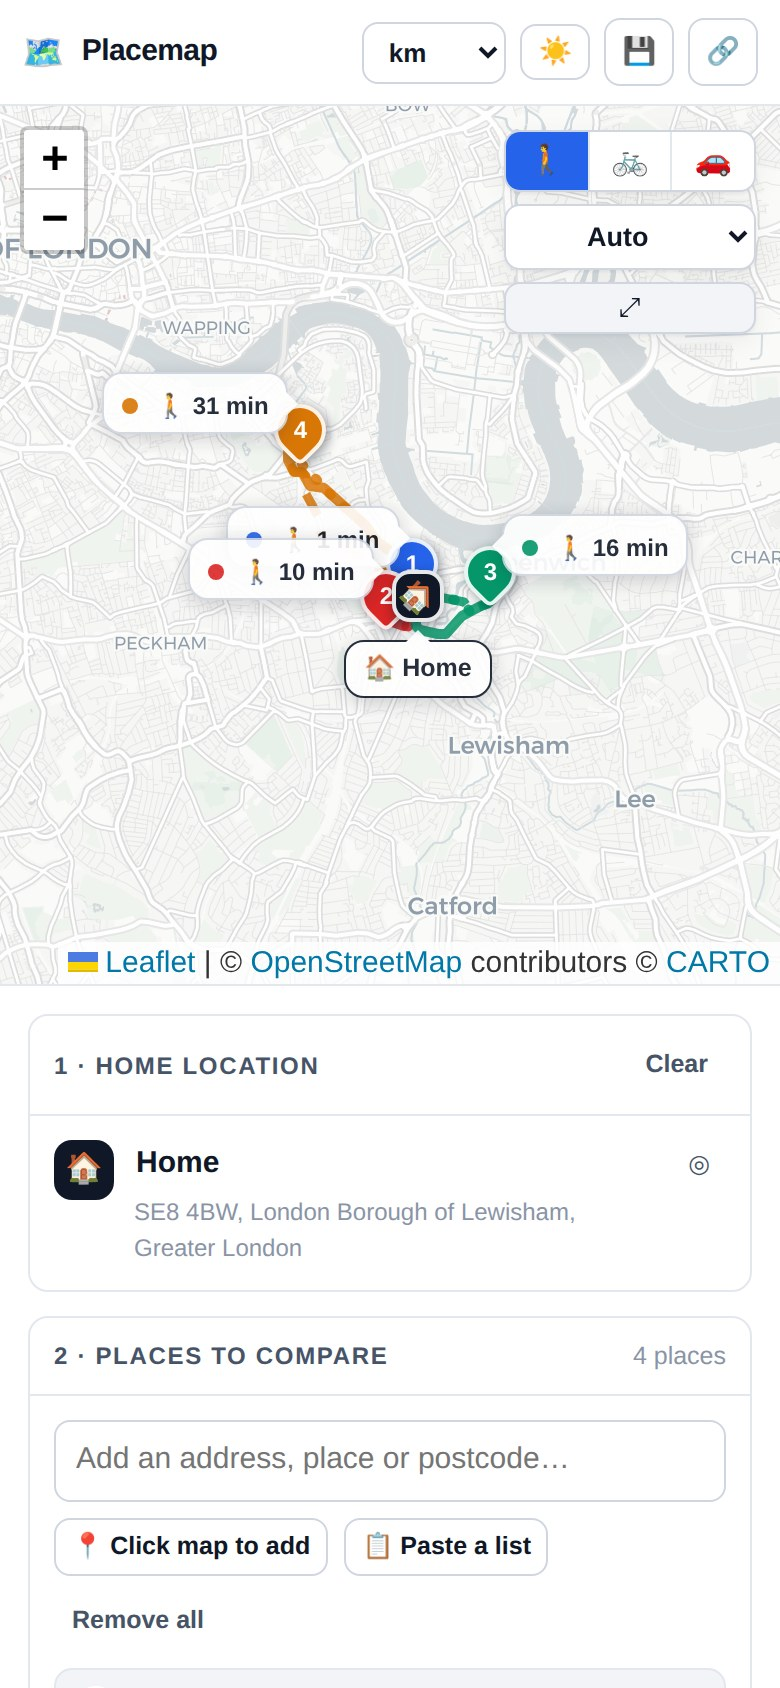
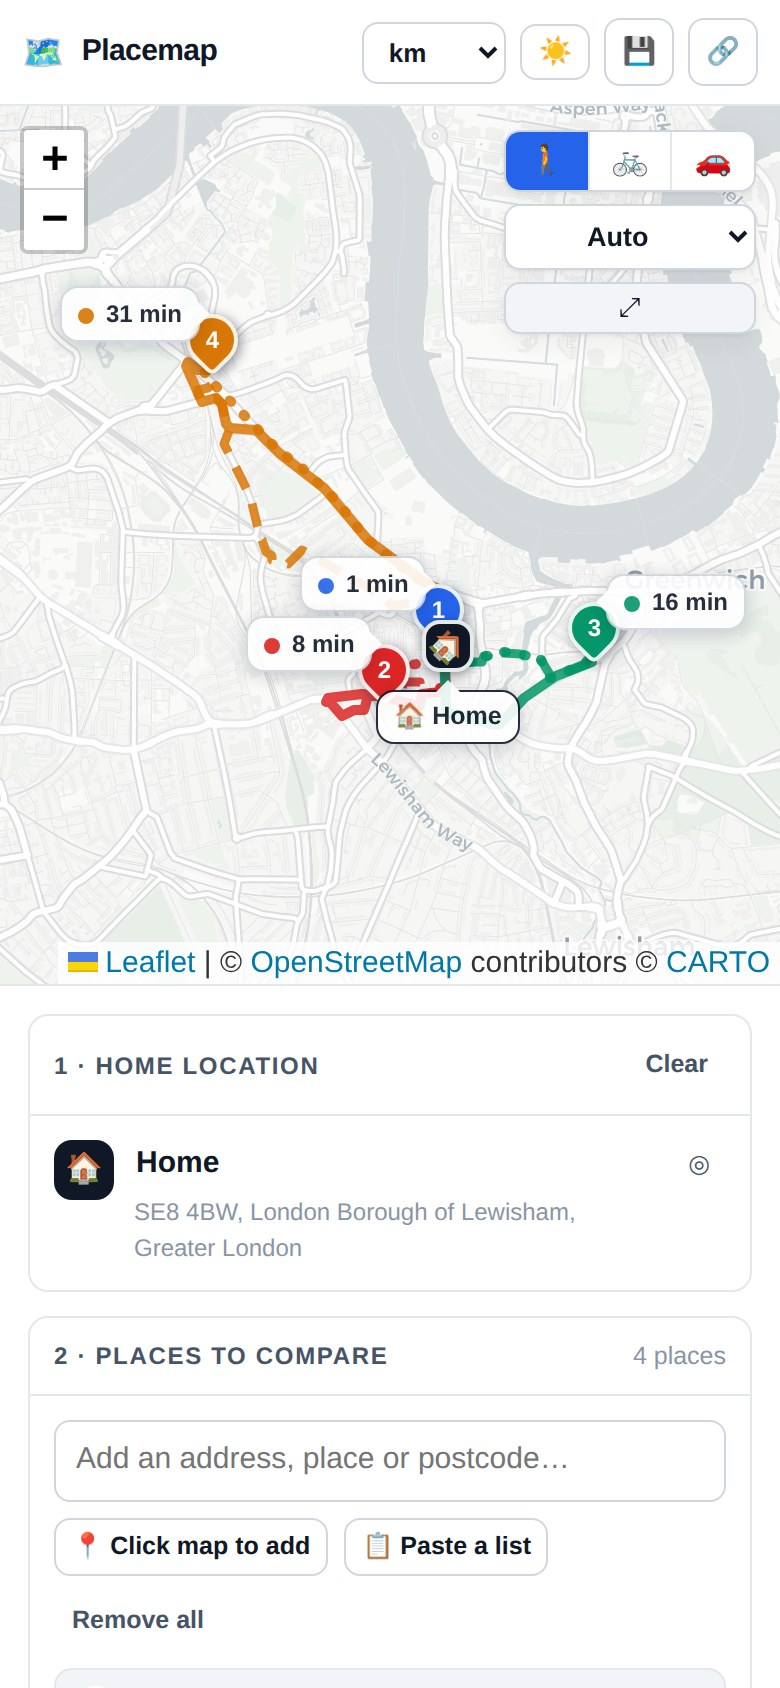
Narrow the map labels to the bare travel time
The mode icon on each label was redundant once the labels reported a single
mode: the switcher on the map already says which one is showing.

- Drop the icon from map labels, leaving the coloured dot and the minutes.
  Phone labels go from about 105px wide to 63-70px. Icons stay everywhere they
  still distinguish one mode from another: the switcher, the sidebar chips, the
  summary headers and the route hover tooltips.
- Trim the home label's address to two components; at three it was 301px, the
  widest thing on the map, and it drove the fit padding for everything else.
- Tighten label padding and leading a touch.

Measured at 390px and 1400px: every label renders fully inside the map bounds.

Claude-Session: https://claude.ai/code/session_01SgC7TYxb9nLCbMYnuft279

diff --git a/index.html b/index.html
@@ -739,7 +739,7 @@ header.topbar{
 }
 @media (max-width:344px){ .brand .wordmark{display:none} }
 @media (max-width:640px){
-  .leaflet-tooltip.map-label{font-size:11px;padding:4px 7px;border-radius:8px}
+  .leaflet-tooltip.map-label{font-size:11.5px;padding:3px 7px;border-radius:8px}
   .map-label .ml-name{font-size:11.5px}
   .map-label .ml-times{gap:7px}
   .brand small{display:none}
@@ -916,8 +916,8 @@ table.summary .pl .dot{width:16px;height:16px;flex:0 0 16px;font-size:9.5px;box-
 
 /* permanent on-map labels: place name + travel time per enabled mode */
 .leaflet-tooltip.map-label{
-  background:var(--panel);color:var(--ink);border:1px solid var(--line-2);border-radius:10px;
-  padding:5px 9px;font-size:12px;line-height:1.35;white-space:nowrap;opacity:1;
+  background:var(--panel);color:var(--ink);border:1px solid var(--line-2);border-radius:9px;
+  padding:4px 8px;font-size:12px;line-height:1.3;white-space:nowrap;opacity:1;
   box-shadow:0 2px 10px rgba(16,24,40,.22);
 }
 .leaflet-tooltip.map-label.leaflet-tooltip-top::before{border-top-color:var(--panel)}
@@ -927,8 +927,8 @@ table.summary .pl .dot{width:16px;height:16px;flex:0 0 16px;font-size:9.5px;box-
 .map-label .ml-name{display:flex;align-items:center;gap:5px;font-weight:650;font-size:12.5px}
 .map-label .ml-name i{width:8px;height:8px;border-radius:50%;flex:0 0 8px}
 .map-label .ml-sub{display:block;color:var(--ink-3);font-size:11px;margin-top:1px}
-.map-label .ml-times{display:flex;gap:9px;margin-top:3px;color:var(--ink-2);
-  font-variant-numeric:tabular-nums}
+.map-label .ml-times{display:flex;gap:6px;margin-top:2px;color:var(--ink-2);
+  font-variant-numeric:tabular-nums;align-items:center}
 .map-label .ml-times b{color:var(--ink);font-weight:650}
 .map-label .ml-dot{width:8px;height:8px;border-radius:50%;flex:0 0 8px;align-self:center}
 .map-label.home{border-color:var(--ink)}
@@ -1263,10 +1263,9 @@ function formatDistance(m){
   const km = m / 1000;
   return km.toFixed(km < 10 ? 1 : 0) + ' km';
 }
-function shortAddr(addr){
+function shortAddr(addr, parts = 3){
   if (!addr) return '';
-  const parts = addr.split(',').map(s => s.trim()).filter(Boolean);
-  return parts.slice(0, 3).join(', ');
+  return addr.split(',').map(s => s.trim()).filter(Boolean).slice(0, parts).join(', ');
 }
 function nextColor(){
   const used = new Set(state.places.map(p => p.color));
@@ -1542,7 +1541,9 @@ function placeLabelHtml(place){
   const val = !showTime ? ''
             : !r || r.status === 'loading' ? '…'
             : r.status === 'ok' ? formatDuration(r.duration) : '—';
-  const time = showTime ? `<span>${mode.icon} <b>${val}</b></span>` : '';
+  /* No mode icon: the switcher on the map already says which mode is showing,
+     and dropping it takes about a third off the label's width. */
+  const time = showTime ? `<b>${val}</b>` : '';
   if (time && isCompact()){
     return `<span class="ml-times"><i class="ml-dot" style="background:${place.color}"></i>${time}</span>`;
   }
@@ -1552,7 +1553,7 @@ function placeLabelHtml(place){
 function homeLabelHtml(){
   return `<span class="ml-name">🏠 ${esc(state.home.label || 'Home')}</span>` +
          (state.home.addr && !isCompact()
-           ? `<span class="ml-sub">${esc(shortAddr(state.home.addr))}</span>` : '');
+           ? `<span class="ml-sub">${esc(shortAddr(state.home.addr, 2))}</span>` : '');
 }
 
 /* Fan the labels outward from home, the way a hand-drawn version would: a

diff --git a/README.md b/README.md
@@ -63,10 +63,11 @@ map stays readable.
 **Times on the map** — every pin carries a label with its travel time, fanned
 outward from home so the middle of the map stays clear. Labels report **one
 mode at a time**; the 🚶 🚲 🚗 buttons on the map switch which. Three times per
-label becomes an unreadable pile as soon as two places sit near each other. On
-a narrow screen the label drops to a coloured dot and the time, because a full
-place name is half a phone wide. Toggle labels off entirely from the travel
-modes panel.
+label becomes an unreadable pile as soon as two places sit near each other, and
+for the same reason the label shows the bare minutes with no mode icon — the
+switcher already says which mode is on screen. On a narrow screen the label
+drops to a coloured dot and the time, because a full place name is half a phone
+wide. Toggle labels off entirely from the travel modes panel.
 
 **Map styles** — *Clean*, *Minimal* (no place names), *Streets* and *Dark* are
 muted CARTO basemaps that let the routes carry the eye; *Detailed* is the
